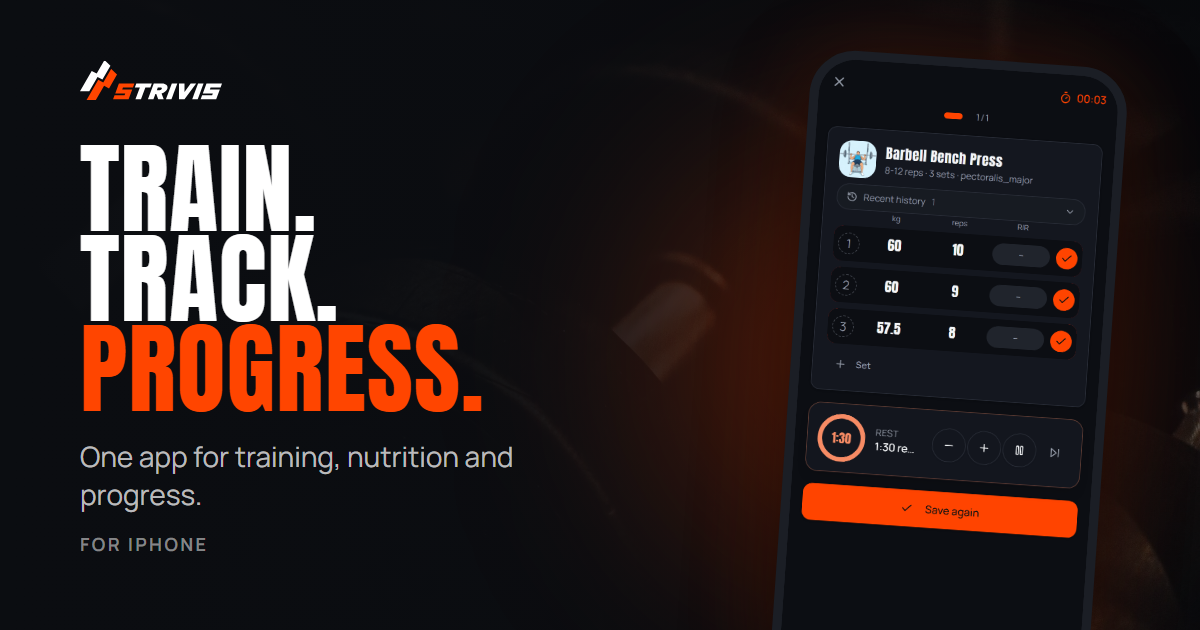
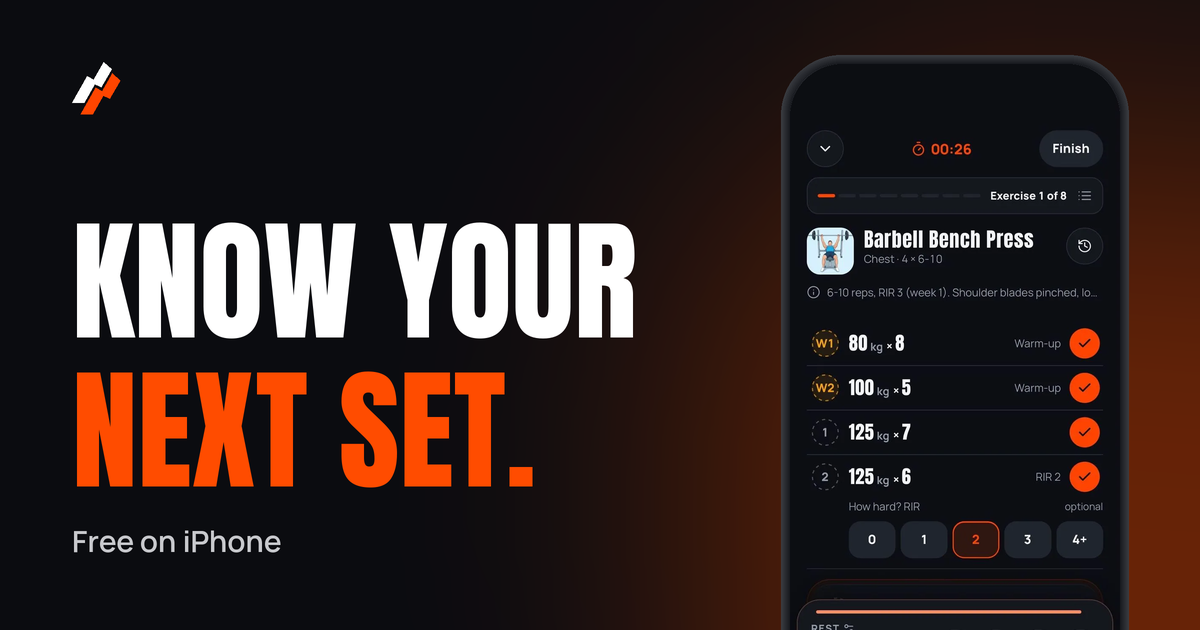
German browsers land on /de before the English page draws; new link previews
The language redirect moves out of main.jsx into public/lang-redirect.js, a
plain script at the top of the prerendered English home page's <head> only
(the CSP blocks inline scripts). It follows arrivalRedirect: the switch's
choice wins, otherwise a German browser goes to /de; deep pages never move.
It calls location.replace before anything is drawn, hides the body and
keeps main.jsx from starting React, so there is no English page, no swap
and no second hero animation. A test runs the file against arrivalRedirect.

The link preview shows "Know your next set." (og-image.png) and, on the
German pages, "Kenn deinen nächsten Satz." (og-image-de.png), with alt texts
per language from seo.js, in the prerendered head and on navigation.

diff --git a/src/main.jsx b/src/main.jsx
@@ -13,24 +13,17 @@ import './index.css'
 import App from './App.jsx'
 import { stripAuthParams } from './lib/stripAuthParams.js'
 import { prerenderedPage } from './lib/seo.js'
-import { arrivalRedirect, readStoredLang } from './i18n/lang.js'
+
+// A visitor arriving at the bare home address who belongs on /de (the
+// switch's choice, or a German browser without one) is already on the way
+// there: public/lang-redirect.js runs at the top of the English home page's
+// <head>, starts the move and marks <html> with data-lang-redirect. Then
+// nothing starts here, so the English page is never rendered and swapped;
+// the German page starts React itself (and cleans the URL, below).
+const redirecting = document.documentElement.hasAttribute('data-lang-redirect')
 
 // Before the router or any script reads the URL (see stripAuthParams.js).
-stripAuthParams()
-
-// A visitor arriving at the bare home address gets the German home page when
-// they picked German with the language switch, or, without a choice of
-// their own, when their browser prefers German (src/i18n/lang.js
-// arrivalRedirect). Client-side only and before React renders: links to a
-// specific page stay as they are, crawlers get the prerendered pages as
-// they are, and the switch's choice always wins.
-const arrival = arrivalRedirect(window.location.pathname, {
-  stored: readStoredLang(),
-  languages: navigator.languages?.length ? navigator.languages : [navigator.language],
-})
-if (arrival) {
-  window.history.replaceState(window.history.state, '', `${arrival}${window.location.search}${window.location.hash}`)
-}
+if (!redirecting) stripAuthParams()
 
 const app = (
   <StrictMode>
@@ -43,12 +36,14 @@ const app = (
 // Every page is prerendered at build time (scripts/prerender.mjs), and
 // #root's data-page says which one. When it is the page at this address,
 // React takes over the existing HTML (hydration); otherwise (the app's
-// handoff pages from the empty shell, the 404 page for a German path, the
-// German home after the redirect above) it renders from scratch.
+// handoff pages from the empty shell, the 404 page for a German path) it
+// renders from scratch.
 const container = document.getElementById('root')
-if (container.dataset.page && container.dataset.page === prerenderedPage(window.location.pathname)) {
-  hydrateRoot(container, app)
-} else {
-  createRoot(container).render(app)
+if (!redirecting) {
+  if (container.dataset.page && container.dataset.page === prerenderedPage(window.location.pathname)) {
+    hydrateRoot(container, app)
+  } else {
+    createRoot(container).render(app)
+  }
 }
 

diff --git a/index.html b/index.html
@@ -13,26 +13,27 @@
     <link rel="apple-touch-icon" href="/apple-touch-icon.png" />
     <meta property="og:type" content="website" />
     <meta property="og:site_name" content="Strivis" />
-    <meta property="og:image" content="https://strivis.app/og-image.png" />
     <meta property="og:image:width" content="1200" />
     <meta property="og:image:height" content="630" />
-    <meta property="og:image:alt" content="Strivis: Train. Track. Progress. The workout logging screen on an iPhone." />
     <meta name="twitter:card" content="summary_large_image" />
-    <meta name="twitter:image" content="https://strivis.app/og-image.png" />
     <!-- page-head:start
          Per page and language. This block is the English home page's, for
          `npm run dev`; the build replaces it in every prerendered page with
          that page's own (scripts/prerender.mjs, from src/lib/seo.js): title,
-         description, canonical, og/twitter texts, hreflang alternates and
-         the structured data (MobileApplication, FAQPage) as JSON-LD. -->
+         description, canonical, og/twitter texts and image, hreflang
+         alternates and the structured data (MobileApplication, FAQPage) as
+         JSON-LD. -->
     <title>Strivis: Workout Tracker, Training Plans & Macros for iPhone</title>
     <meta name="description" content="Training plans, workout logging with PR detection, calories and macros, and 601 exercises that work offline. One iPhone app, free to start." />
     <link rel="canonical" href="https://strivis.app/" />
     <meta property="og:url" content="https://strivis.app/" />
     <meta property="og:title" content="Strivis. Know your next set." />
     <meta property="og:description" content="Strivis shows what you lifted last time and the number to beat today. Training, plans and nutrition in one iPhone app." />
+    <meta property="og:image" content="https://strivis.app/og-image.png" />
+    <meta property="og:image:alt" content="Strivis: Know your next set. Free on iPhone. The workout screen of the app on an iPhone." />
     <meta name="twitter:title" content="Strivis. Know your next set." />
     <meta name="twitter:description" content="Strivis shows what you lifted last time and the number to beat today. Training, plans and nutrition in one iPhone app." />
+    <meta name="twitter:image" content="https://strivis.app/og-image.png" />
     <!-- page-head:end -->
     <!-- Fonts are self-hosted (@fontsource, imported in src/main.jsx; the
          Anton file every first screen needs is preloaded by vite.config.js)

diff --git a/public/lang-redirect.js b/public/lang-redirect.js
@@ -1,0 +1,46 @@
+// The language on arrival at the bare home address, before anything is
+// drawn. scripts/prerender.mjs puts this file at the top of the <head> of the
+// English home page (dist/index.html) only: never /de, never a deep page, so
+// a link to a specific page always stays where it points. A plain file, not
+// inline: the CSP (vercel.json) allows scripts from this site only.
+//
+// The rule is arrivalRedirect in src/i18n/lang.js, written out again here
+// because a classic script can't import a module; tests/i18n.test.mjs runs
+// this file against arrivalRedirect so the two stay the same. A choice made
+// with the language switch wins (German goes to /de, English stays);
+// without one, a browser that prefers German goes to /de. The move is not
+// stored. While the German page loads, html[data-lang-redirect] keeps the
+// English page hidden (src/index.css) and src/main.jsx doesn't start React.
+(function () {
+  try {
+    var path = location.pathname;
+    if (path.length > 1) path = path.replace(/\/+$/, "") || "/";
+    if (path !== "/") return;
+
+    var lang = null;
+    try {
+      lang = window.localStorage.getItem("strivis_lang");
+    } catch {
+      lang = null;
+    }
+    if (lang !== "en" && lang !== "de") {
+      lang = null;
+      var list = navigator.languages && navigator.languages.length ? navigator.languages : [navigator.language];
+      for (var i = 0; i < list.length; i++) {
+        var primary = String(list[i]).toLowerCase().split(/[-_]/)[0];
+        if (primary === "en" || primary === "de") {
+          lang = primary;
+          break;
+        }
+      }
+    }
+    if (lang !== "de") return;
+
+    // The navigation starts here and finishes later; the attribute comes
+    // second so a failed call never leaves the page hidden.
+    location.replace("/de" + location.search + location.hash);
+    document.documentElement.setAttribute("data-lang-redirect", "de");
+  } catch {
+    // Never block the page over this: it stays English.
+  }
+})();

diff --git a/src/i18n/lang.js b/src/i18n/lang.js
@@ -96,9 +96,12 @@ export function preferredLang(languages) {
 // bare English home address ever moves, never a deep page: a choice made
 // with the language switch wins (German goes to /de, English stays); without
 // one, a browser that prefers German goes to /de on arrival. The move is
-// not stored, so the switch stays the only remembered choice. Runs in the
-// browser only (src/main.jsx), never on the server or by user agent, so the
-// prerendered HTML of every page stays as it is.
+// not stored, so the switch stays the only remembered choice. This is the
+// rule; it runs in the browser only, as public/lang-redirect.js at the top
+// of the English home page's <head> (a classic script, so the rule is
+// written out there again; tests/i18n.test.mjs runs that file against this
+// function). Never on the server or by user agent, so the prerendered HTML
+// of every page stays as it is.
 export function arrivalRedirect(pathname, { stored = null, languages = [] } = {}) {
   if (normalizePath(pathname) !== "/") return null;
   const lang = stored ?? preferredLang(languages);

diff --git a/src/lib/seo.js b/src/lib/seo.js
@@ -85,7 +85,27 @@ export function alternatesFor(pathname) {
   ];
 }
 
-export function metaFor(pathname, { gated = false } = {}) {
+// The link-preview image, one per language (public/og-image.png and
+// og-image-de.png, 1200 x 630): the hero's promise in the brand style, the
+// workout screen on an iPhone. Every page in a language shares it.
+export const OG_IMAGE = {
+  en: {
+    url: `${ORIGIN}/og-image.png`,
+    alt: "Strivis: Know your next set. Free on iPhone. The workout screen of the app on an iPhone.",
+  },
+  de: {
+    url: `${ORIGIN}/og-image-de.png`,
+    alt: "Strivis: Kenn deinen nächsten Satz. Kostenlos fürs iPhone. Der Trainingsbildschirm der App auf einem iPhone.",
+  },
+};
+
+export function metaFor(pathname, options) {
+  const meta = pageMetaFor(pathname, options);
+  const image = OG_IMAGE[meta.lang] ?? OG_IMAGE.en;
+  return { ...meta, ogImage: image.url, ogImageAlt: image.alt };
+}
+
+function pageMetaFor(pathname, { gated = false } = {}) {
   const path = normalizePath(pathname);
   const known = PAGE_META[path];
   if (known) {

diff --git a/src/lib/pageMeta.js b/src/lib/pageMeta.js
@@ -52,8 +52,11 @@ export function usePageMeta({ gated = false } = {}) {
     setMeta('meta[property="og:title"]', property("og:title"), meta.ogTitle);
     setMeta('meta[property="og:description"]', property("og:description"), meta.ogDescription);
     setMeta('meta[property="og:locale"]', property("og:locale"), meta.lang === "de" ? "de_DE" : "en_US");
+    setMeta('meta[property="og:image"]', property("og:image"), meta.ogImage);
+    setMeta('meta[property="og:image:alt"]', property("og:image:alt"), meta.ogImageAlt);
     setMeta('meta[name="twitter:title"]', named("twitter:title"), meta.ogTitle);
     setMeta('meta[name="twitter:description"]', named("twitter:description"), meta.ogDescription);
+    setMeta('meta[name="twitter:image"]', named("twitter:image"), meta.ogImage);
     setMeta('meta[name="robots"]', named("robots"), meta.noindex ? "noindex" : null);
     setAlternates(meta.alternates);
   }, [pathname, gated]);

diff --git a/src/index.css b/src/index.css
@@ -90,6 +90,12 @@
   a {
     text-underline-offset: 0.25em;
   }
+  /* A German visitor on the English home page while /de loads
+     (public/lang-redirect.js): the dark background only, not the English
+     page, so nothing swaps in front of them. */
+  html[data-lang-redirect] body {
+    visibility: hidden;
+  }
 }
 
 @media (prefers-reduced-transparency: reduce) {

diff --git a/docs/security.md b/docs/security.md
@@ -104,10 +104,12 @@ never in an iframe.
 - The prerendered HTML carries no inline script and no `style` attribute
   (the build fails otherwise). Structured data is JSON-LD in
   `<script type="application/ld+json">`, a data block the browser never
-  runs, so `script-src` stays `'self'`.
+  runs, so `script-src` stays `'self'`. The English home page's language
+  redirect is a file for the same reason (`public/lang-redirect.js`,
+  loaded with `src` from the `<head>` of `dist/index.html` only).
 - Every page is a static import behind a fixed route; nothing loads a
   module, page or content file by a URL value.
-- `public/` holds only images, the two self-destructing service workers
-  and the Apple app-site association. `tests/path-safety.test.mjs` fails
+- `public/` holds only images, the two self-destructing service workers,
+  the language redirect and the Apple app-site association. `tests/path-safety.test.mjs` fails
   on anything else there, and on source maps, env or config files in
   `dist/`.
